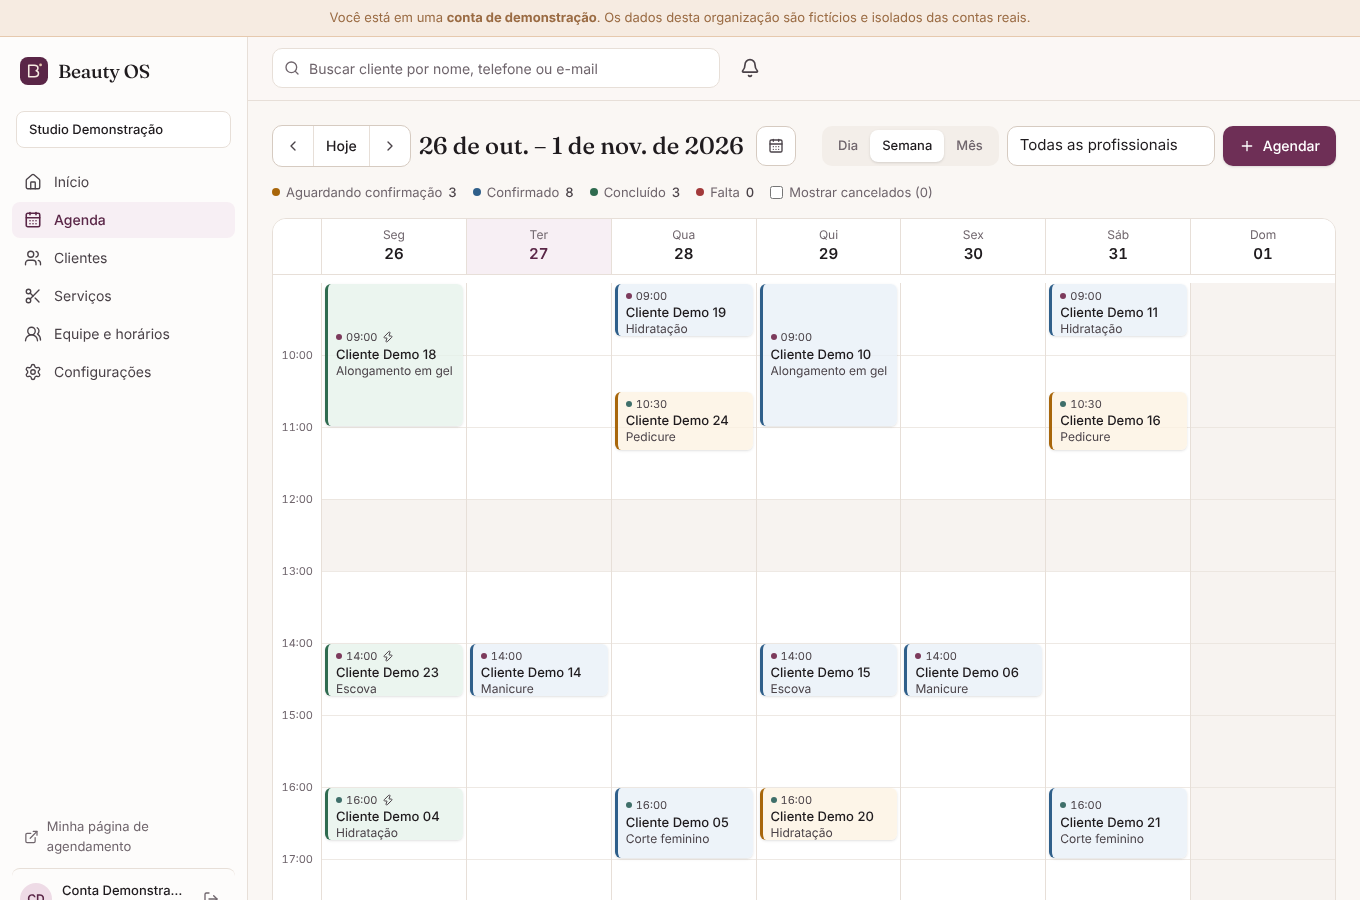
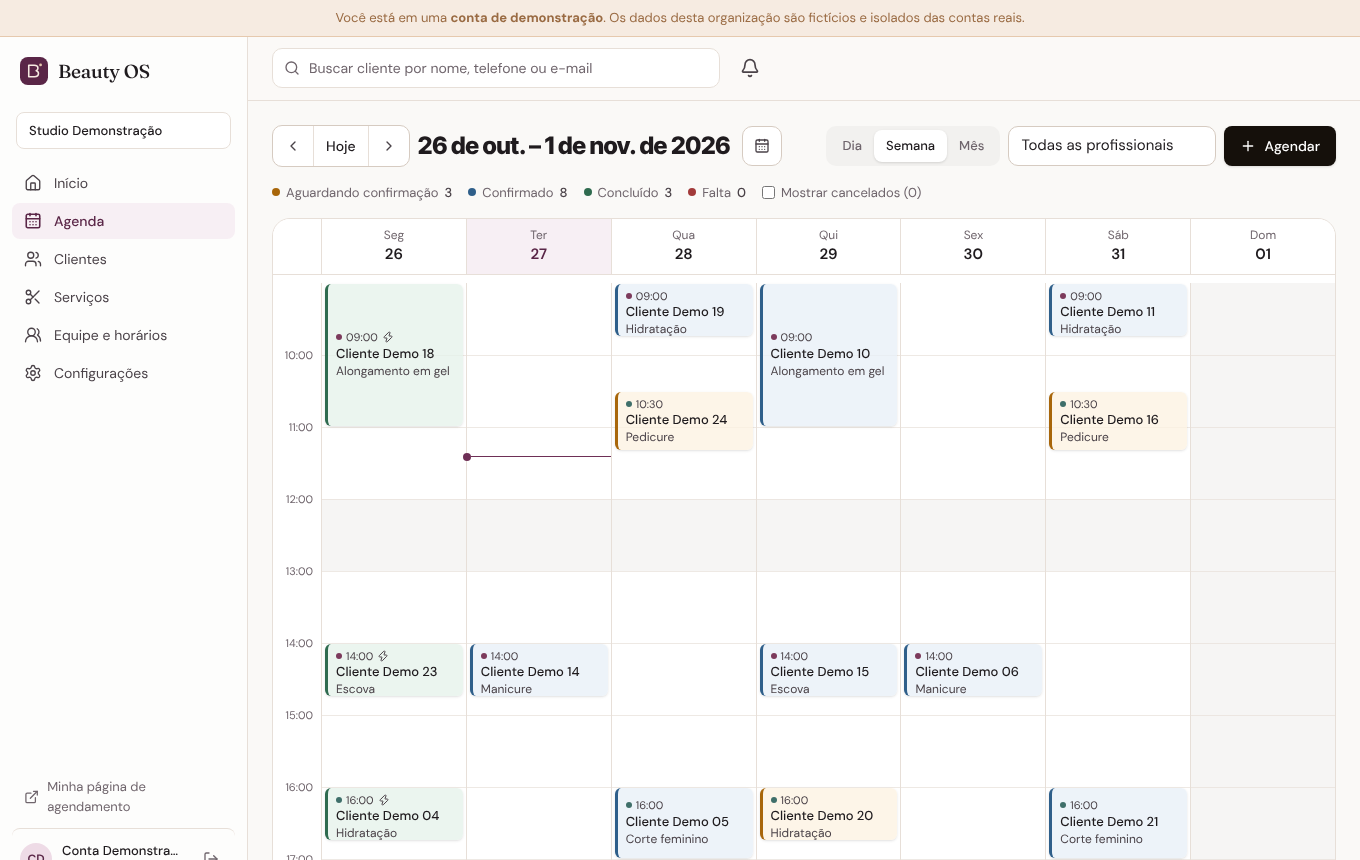
Estende a linguagem visual da landing ao produto inteiro
DM Sans como fonte base e Inter Tight ExtraBold nos títulos; ações e seleções
em preto quente; ameixa mantida como cor de marca; blocos escuros com halos;
topo claro com halo na página pública de agendamento.

Claude-Session: https://claude.ai/code/session_017yUxHj6sHtnoANT1YFCpkN

diff --git a/src/app/b/[slug]/booking-flow.tsx b/src/app/b/[slug]/booking-flow.tsx
@@ -54,7 +54,7 @@ export function BookingFlow({ slug, timeZone, days, requiresApproval, cancellati
     return (
       <Card className="p-8 text-center">
         <div className="mx-auto grid h-14 w-14 place-items-center rounded-full bg-st-completed-bg text-st-completed"><Check className="h-7 w-7" /></div>
-        <h2 className="mt-4 font-display text-2xl font-medium">{done.status === "pending" ? "Solicitação enviada!" : "Horário reservado!"}</h2>
+        <h2 className="mt-4 font-tight tracking-[-0.02em] text-2xl font-extrabold">{done.status === "pending" ? "Solicitação enviada!" : "Horário reservado!"}</h2>
         <p className="mt-2 text-sm text-ink-soft">
           {service?.name} · <span className="first-letter:uppercase">{date && formatInTz(zonedDateTime(date, "12:00", timeZone), timeZone, { weekday: "long", day: "numeric", month: "long" })}</span> às {time}
           {done.professionalName ? ` com ${done.professionalName}` : ""}.
@@ -71,8 +71,8 @@ export function BookingFlow({ slug, timeZone, days, requiresApproval, cancellati
     <Card className="overflow-hidden">
       <ol className="flex border-b border-line text-[12px] font-medium" aria-label="Etapas">
         {["Serviço", "Profissional", "Horário", "Seus dados"].map((l, i) => (
-          <li key={l} className={cn("flex-1 py-3 text-center", step === i + 1 ? "text-plum-700" : step > i + 1 ? "text-ink-soft" : "text-muted")}>
-            <span className={cn("mx-auto mb-1 block h-1 w-10 rounded-full", step >= i + 1 ? "bg-plum-500" : "bg-line")} aria-hidden />{l}
+          <li key={l} className={cn("flex-1 py-3 text-center", step === i + 1 ? "text-ink-warm" : step > i + 1 ? "text-ink-soft" : "text-muted")}>
+            <span className={cn("mx-auto mb-1 block h-1 w-10 rounded-full", step >= i + 1 ? "bg-ink-warm" : "bg-line")} aria-hidden />{l}
           </li>
         ))}
       </ol>
@@ -131,7 +131,7 @@ export function BookingFlow({ slug, timeZone, days, requiresApproval, cancellati
             <div className="-mx-5 mb-5 flex snap-x gap-2 overflow-x-auto px-5 pb-1 sm:-mx-6 sm:px-6">
               {days.map((d) => (
                 <button key={d} onClick={() => { setDate(d); setTime(null); }} aria-pressed={date === d}
-                  className={cn("flex w-14 shrink-0 snap-start flex-col items-center rounded-xl border py-2.5", date === d ? "border-plum-600 bg-plum-600 text-white" : "border-line hover:border-plum-500")}>
+                  className={cn("flex w-14 shrink-0 snap-start flex-col items-center rounded-xl border py-2.5", date === d ? "border-ink-warm bg-ink-warm text-white" : "border-line hover:border-plum-500")}>
                   <span className={cn("text-[11px] uppercase", date === d ? "text-plum-100" : "text-muted")}>{WD[localWeekday(d)]}</span>
                   <span className="text-lg font-semibold tabular">{Number(d.slice(8))}</span>
                 </button>
@@ -144,7 +144,7 @@ export function BookingFlow({ slug, timeZone, days, requiresApproval, cancellati
               : (
                 <div className="grid grid-cols-4 gap-2 sm:grid-cols-6">
                   {slots.list.map((s) => (
-                    <button key={s.time} onClick={() => { setTime(s.time); setNotice(null); }} className="h-10 rounded-lg border border-line text-sm font-medium tabular hover:border-plum-600 hover:bg-plum-50">{s.time}</button>
+                    <button key={s.time} onClick={() => { setTime(s.time); setNotice(null); }} className="h-10 rounded-lg border border-line text-sm font-medium tabular hover:border-ink-warm hover:bg-sunken">{s.time}</button>
                   ))}
                 </div>
               )}
@@ -187,7 +187,7 @@ function DetailsForm({ slug, serviceId, professionalId, date, time, summary, req
   });
   return (
     <ActionForm action={submit} className="flex flex-col gap-4" noValidate>
-      <div className="flex items-center gap-2 rounded-xl bg-plum-50 px-4 py-3 text-sm text-plum-700"><CalendarCheck className="h-4 w-4 shrink-0" />{summary}</div>
+      <div className="flex items-center gap-2 rounded-xl bg-sunken px-4 py-3 text-sm font-medium text-ink-warm"><CalendarCheck className="h-4 w-4 shrink-0" />{summary}</div>
       {error && <FormMessage state={{ ok: false, message: error }} />}
       <Field label="Seu nome" htmlFor="fullName" error={fe.fullName}><Input id="fullName" name="fullName" autoComplete="name" required /></Field>
       <Field label="WhatsApp" htmlFor="phone" error={fe.phone} hint="Usado para confirmar o horário."><Input id="phone" name="phone" type="tel" inputMode="tel" autoComplete="tel" placeholder="(11) 90000-0000" required /></Field>

diff --git a/src/app/onboarding/onboarding-flow.tsx b/src/app/onboarding/onboarding-flow.tsx
@@ -27,7 +27,7 @@ export function OnboardingFlow({
           <li key={s.n} className="flex flex-1 items-center gap-2">
             <span className={cn(
               "grid h-8 w-8 shrink-0 place-items-center rounded-full text-[13px] font-semibold",
-              step > s.n ? "bg-plum-600 text-white" : step === s.n ? "bg-plum-100 text-plum-700 ring-2 ring-plum-500" : "bg-sunken text-muted",
+              step > s.n ? "bg-ink-warm text-white" : step === s.n ? "bg-plum-100 text-plum-700 ring-2 ring-plum-500" : "bg-sunken text-muted",
             )} aria-current={step === s.n ? "step" : undefined}>
               {step > s.n ? <Check className="h-4 w-4" /> : s.n}
             </span>
@@ -49,7 +49,7 @@ function BusinessStep({ businessTypes, value, onType, onDone }: { businessTypes:
   const fe = state && !state.ok ? state.fieldErrors : undefined;
   return (
     <Card className="p-6 sm:p-8">
-      <h1 className="font-display text-[26px] font-medium">Vamos montar seu espaço</h1>
+      <h1 className="font-tight tracking-[-0.02em] text-[26px] font-extrabold">Vamos montar seu espaço</h1>
       <p className="mt-1 mb-6 text-sm text-muted">Três passos rápidos. Tudo pode ser ajustado depois.</p>
       <ActionForm action={action} className="flex flex-col gap-5">
         <FormMessage state={state} />
@@ -86,7 +86,7 @@ function HoursStep({ onDone }: { onDone: () => void }) {
   });
   return (
     <Card className="p-6 sm:p-8">
-      <h1 className="font-display text-[26px] font-medium">Quando você atende?</h1>
+      <h1 className="font-tight tracking-[-0.02em] text-[26px] font-extrabold">Quando você atende?</h1>
       <p className="mt-1 mb-6 text-sm text-muted">Usamos isso para mostrar apenas horários reais na sua agenda e na página de agendamento.</p>
       {error && <div className="mb-4"><FormMessage state={{ ok: false, message: error }} /></div>}
       <fieldset className="mb-6">
@@ -98,7 +98,7 @@ function HoursStep({ onDone }: { onDone: () => void }) {
               <button key={d} type="button" aria-pressed={on}
                 onClick={() => setDays(on ? days.filter((x) => x !== i) : [...days, i].sort())}
                 className={cn("h-10 min-w-12 rounded-[10px] border px-3 text-sm font-medium transition-colors",
-                  on ? "border-plum-600 bg-plum-600 text-white" : "border-line-strong bg-surface text-ink-soft hover:bg-sunken")}>
+                  on ? "border-ink-warm bg-ink-warm text-white" : "border-line-strong bg-surface text-ink-soft hover:bg-sunken")}>
                 {d}
               </button>
             );
@@ -139,7 +139,7 @@ function ServicesStep({ presets, onBack }: { presets: Preset[]; onBack: () => vo
   });
   return (
     <Card className="p-6 sm:p-8">
-      <h1 className="font-display text-[26px] font-medium">Seus serviços</h1>
+      <h1 className="font-tight tracking-[-0.02em] text-[26px] font-extrabold">Seus serviços</h1>
       <p className="mt-1 mb-6 text-sm text-muted">Sugestões comuns para o seu segmento. Ajuste preço e duração ou desmarque o que não oferece — os valores são só ponto de partida.</p>
       {error && <div className="mb-4"><FormMessage state={{ ok: false, message: error }} /></div>}
       <ul className="divide-y divide-line rounded-xl border border-line">

diff --git a/src/app/b/[slug]/page.tsx b/src/app/b/[slug]/page.tsx
@@ -1,7 +1,7 @@
 import type { Metadata } from "next";
 import Link from "next/link";
 import { notFound } from "next/navigation";
-import { MapPin, AtSign } from "lucide-react";
+import { AtSign, CalendarCheck2, MapPin } from "lucide-react";
 import { withSystem } from "@/server/db";
 import { getPublicBusiness } from "@/server/modules/public-booking";
 import { addDaysToKey, localDateKey } from "@/lib/time";
@@ -28,17 +28,18 @@ export default async function PublicBookingPage({ params }: Params) {
   const days = Array.from({ length: Math.min(biz.maxAdvanceDays + 1, 30) }, (_, i) => addDaysToKey(today, i));
   return (
     <div className="min-h-dvh bg-canvas">
-      <header className="bg-plum-900 px-4 pt-10 pb-16 text-champagne-100">
-        <div className="mx-auto max-w-2xl">
-          <p className="text-xs tracking-[0.18em] text-plum-200 uppercase">Agendamento online</p>
-          <h1 className="mt-2 font-display text-[32px] leading-tight font-medium">{biz.name}</h1>
-          <div className="mt-3 flex flex-wrap gap-x-4 gap-y-1 text-[13px] text-plum-200">
+      <header className="relative overflow-hidden bg-white px-4 pt-10 pb-20">
+        <div className="pointer-events-none absolute -top-24 left-1/2 h-72 w-[560px] -translate-x-1/2 rounded-full bg-halo-lavender opacity-80 blur-3xl" aria-hidden />
+        <div className="relative mx-auto max-w-2xl">
+          <p className="flex items-center gap-2 text-[14px] font-semibold text-ink-warm"><CalendarCheck2 className="h-4 w-4 text-[#813afc]" strokeWidth={2.4} />Agendamento online</p>
+          <h1 className="mt-2 font-tight text-[34px] leading-tight font-extrabold tracking-[-0.025em] text-ink-warm sm:text-[40px]">{biz.name}</h1>
+          <div className="mt-3 flex flex-wrap gap-x-4 gap-y-1 text-[13px] text-ink-warm/60">
             {biz.address && <span className="inline-flex items-center gap-1"><MapPin className="h-3.5 w-3.5" />{biz.address}</span>}
-            {biz.instagram && <a href={`https://instagram.com/${biz.instagram}`} target="_blank" rel="noreferrer" className="inline-flex items-center gap-1 hover:text-white"><AtSign className="h-3.5 w-3.5" />{biz.instagram}</a>}
+            {biz.instagram && <a href={`https://instagram.com/${biz.instagram}`} target="_blank" rel="noreferrer" className="inline-flex items-center gap-1 hover:text-ink-warm"><AtSign className="h-3.5 w-3.5" />{biz.instagram}</a>}
           </div>
         </div>
       </header>
-      <main className="mx-auto -mt-10 max-w-2xl px-4 pb-16">
+      <main className="relative mx-auto -mt-10 max-w-2xl px-4 pb-16">
         <BookingFlow
           slug={biz.slug}
           timeZone={biz.timezone}

diff --git a/src/app/(auth)/layout.tsx b/src/app/(auth)/layout.tsx
@@ -3,17 +3,17 @@ import { Logo } from "@/components/brand/logo";
 export default function AuthLayout({ children }: { children: React.ReactNode }) {
   return (
     <div className="grid min-h-dvh lg:grid-cols-[1fr_minmax(0,560px)]">
-      <aside className="relative hidden overflow-hidden bg-plum-900 p-12 text-champagne-100 lg:flex lg:flex-col lg:justify-between">
-        <Logo href="/" className="[&_span]:text-champagne-100" />
-        <div className="max-w-md">
-          <p className="font-display text-[34px] leading-[1.15] font-light">
-            Menos tempo administrando, menos horários perdidos e <em className="text-champagne-300">mais clientes voltando</em>.
+      <aside className="relative hidden overflow-hidden bg-ink-warm p-12 text-white lg:flex lg:flex-col lg:justify-between">
+        <div className="pointer-events-none absolute -top-32 -right-24 h-[420px] w-[420px] rounded-full bg-[#813afc]/35 blur-[90px]" aria-hidden />
+        <div className="pointer-events-none absolute -bottom-40 -left-24 h-[380px] w-[380px] rounded-full bg-[#e0457b]/25 blur-[90px]" aria-hidden />
+        <Logo href="/" className="relative [&_span]:text-white" />
+        <div className="relative max-w-md">
+          <p className="font-tight text-[38px] leading-[1.12] font-extrabold tracking-[-0.025em]">
+            Menos tempo administrando, menos horários perdidos e <span className="text-halo-lavender">mais clientes voltando</span>.
           </p>
-          <p className="mt-6 text-sm text-plum-200">Agenda, clientes e agendamento online em um só lugar — feito para o dia a dia de quem trabalha com beleza.</p>
+          <p className="mt-6 text-[15px] leading-relaxed text-white/65">Agenda, clientes e agendamento online em um só lugar, feito para o dia a dia de quem trabalha com beleza.</p>
         </div>
-        <p className="text-xs text-plum-200/70">Teste grátis por 14 dias. Sem cartão de crédito.</p>
-        <div className="pointer-events-none absolute -right-24 -bottom-24 h-80 w-80 rounded-full border border-plum-700" aria-hidden />
-        <div className="pointer-events-none absolute -right-8 -bottom-8 h-48 w-48 rounded-full border border-plum-700" aria-hidden />
+        <p className="relative text-xs text-white/50">Teste grátis por 14 dias. Sem cartão de crédito.</p>
       </aside>
       <main className="flex flex-col px-4 py-8 sm:px-10">
         <div className="lg:hidden"><Logo /></div>

diff --git a/src/app/app/agenda/agenda-view.tsx b/src/app/app/agenda/agenda-view.tsx
@@ -97,7 +97,7 @@ export function AgendaView(props: Props) {
             <button onClick={() => go({ data: today })} className="h-10 border-x border-line px-3 text-sm font-medium hover:bg-sunken" title="Hoje (T)">Hoje</button>
             <button onClick={() => shift(1)} className="grid h-10 w-10 place-items-center text-ink-soft hover:text-ink" aria-label="Próximo" title="Próximo (→)"><ChevronRight className="h-4 w-4" /></button>
           </div>
-          <h1 className="min-w-0 truncate font-display text-[22px] font-medium first-letter:uppercase sm:text-2xl">{title}</h1>
+          <h1 className="min-w-0 truncate font-tight tracking-[-0.02em] text-[22px] font-extrabold first-letter:uppercase sm:text-2xl">{title}</h1>
           <label className="relative ml-1">
             <span className="sr-only">Ir para data</span>
             <input type="date" value={date} onChange={(e) => e.target.value && go({ data: e.target.value })}
@@ -410,7 +410,7 @@ function MonthGrid({ rangeStart, date, today, timeZone, items, pros, onDay }: Pr
             <button key={d} onClick={() => onDay(d)}
               className={cn("flex min-h-[92px] flex-col gap-1 border-r border-b border-line p-1.5 text-left hover:bg-sunken/60 sm:min-h-[112px] sm:p-2 [&:nth-child(7n)]:border-r-0", !inMonth && "bg-canvas/50 text-muted")}
               aria-label={`${d.split("-").reverse().join("/")}: ${list.length} atendimento(s)`}>
-              <span className={cn("grid h-6 w-6 place-items-center rounded-full text-[13px] font-medium tabular", d === today && "bg-plum-600 text-white")}>{Number(d.slice(8))}</span>
+              <span className={cn("grid h-6 w-6 place-items-center rounded-full text-[13px] font-medium tabular", d === today && "bg-ink-warm text-white")}>{Number(d.slice(8))}</span>
               {list.slice(0, 3).map((i) => {
                 const pro = pros.find((p) => p.id === i.professionalId);
                 return (

diff --git a/src/app/globals.css b/src/app/globals.css
@@ -6,12 +6,12 @@
  * Contraste: texto principal sobre fundo ≥ 12:1; ameixa sobre branco ≥ 8:1; branco sobre ameixa ≥ 8:1.
  */
 @theme {
-  --font-sans: var(--font-inter), ui-sans-serif, system-ui, sans-serif;
+  --font-sans: var(--font-dm-sans), ui-sans-serif, system-ui, sans-serif;
   --font-display: var(--font-fraunces), ui-serif, Georgia, serif;
 
-  --color-canvas: #faf7f4;
+  --color-canvas: #faf9f7;
   --color-surface: #ffffff;
-  --color-sunken: #f3eee9;
+  --color-sunken: #f2f1ef;
   --color-line: #e7dfd8;
   --color-line-strong: #d6cbc1;
 
@@ -47,8 +47,8 @@
   --color-success: #2f6b4f;
 
   /* Landing (marketing): base quase monocromática, cor concentrada em halos e destaques */
-  --font-hero: var(--font-dm-sans), var(--font-inter), ui-sans-serif, system-ui, sans-serif;
-  --font-tight: var(--font-inter-tight), var(--font-inter), ui-sans-serif, system-ui, sans-serif;
+  --font-hero: var(--font-dm-sans), ui-sans-serif, system-ui, sans-serif;
+  --font-tight: var(--font-inter-tight), var(--font-dm-sans), ui-sans-serif, system-ui, sans-serif;
   --color-ink-warm: #15100b;
   --color-mkt-card: #f2f1ef;
   --color-mkt-shape: #e4e3e0;
@@ -65,7 +65,7 @@
   --color-slot-2: #7be4fe;
   --color-slot-3: #e5dbfd;
 
-  --radius-card: 14px;
+  --radius-card: 18px;
   --shadow-card: 0 1px 2px rgb(31 27 30 / 0.04), 0 1px 1px rgb(31 27 30 / 0.03);
   --shadow-pop: 0 12px 32px -8px rgb(46 19 36 / 0.22), 0 2px 6px rgb(46 19 36 / 0.08);
 }
@@ -79,8 +79,7 @@
     background: var(--color-canvas);
     color: var(--color-ink);
     font-family: var(--font-sans);
-    font-feature-settings: "cv11", "ss01";
-    -webkit-font-smoothing: antialiased;
+        -webkit-font-smoothing: antialiased;
   }
   :focus-visible {
     outline: 2px solid var(--color-plum-500);

diff --git a/src/app/page.tsx b/src/app/page.tsx
@@ -5,7 +5,6 @@ import { PLANS } from "@/domain/plans";
 import { getSession } from "@/server/auth/session";
 import { HeroWidget } from "@/components/marketing/hero-widget";
 import { BookingDemo } from "@/components/marketing/booking-demo";
-import { dmSans, interTight } from "@/components/marketing/fonts";
 import { cn } from "@/lib/cn";
 
 const pill = (tone: "dark" | "light") =>
@@ -35,7 +34,7 @@ const FAQ = [
 export default async function LandingPage() {
   const session = await getSession();
   return (
-    <div className={cn(dmSans.variable, interTight.variable, "bg-white font-hero text-ink-warm")}>
+    <div className="bg-white font-hero text-ink-warm">
       <header className="sticky top-0 z-30 bg-white/90 backdrop-blur">
         <div className="mx-auto flex h-[72px] max-w-[1240px] items-center justify-between gap-6 px-4 sm:px-6">
           <Logo />
@@ -153,7 +152,7 @@ export default async function LandingPage() {
               ["Acompanhe e fidelize", "Veja quem está sumida, sua ocupação e quanto recebeu no mês."],
             ].map(([t, d], i) => (
               <li key={t}>
-                <span className="font-display text-5xl font-light text-champagne-300">{i + 1}</span>
+                <span className="font-tight tracking-[-0.02em] text-5xl font-extrabold text-champagne-300">{i + 1}</span>
                 <h3 className="mt-3 text-[17px] font-semibold text-white">{t}</h3>
                 <p className="mt-2 text-sm leading-relaxed text-plum-200">{d}</p>
               </li>

diff --git a/src/app/app/page.tsx b/src/app/app/page.tsx
@@ -81,7 +81,7 @@ export default async function DashboardPage({ searchParams }: { searchParams: Pr
         <Card className="mb-6 overflow-hidden">
           <div className="grid gap-6 p-5 md:grid-cols-[1fr_auto] md:items-center">
             <div>
-              <h2 className="font-display text-xl font-medium">Primeiros passos</h2>
+              <h2 className="font-tight tracking-[-0.02em] text-xl font-extrabold">Primeiros passos</h2>
               <p className="mt-1 text-sm text-muted">Complete para começar a receber agendamentos. {activation.filter((a) => a.done).length} de {activation.length} concluídos.</p>
               <ul className="mt-4 grid gap-2 sm:grid-cols-2">
                 {activation.map((a) => (
@@ -94,9 +94,9 @@ export default async function DashboardPage({ searchParams }: { searchParams: Pr
                 ))}
               </ul>
             </div>
-            <div className="rounded-xl bg-plum-900 p-4 text-champagne-100 md:w-72">
+            <div className="rounded-2xl bg-ink-warm p-4 text-white md:w-72">
               <div className="flex items-center gap-2 text-sm font-medium"><Link2 className="h-4 w-4" />Sua página de agendamento</div>
-              <p className="mt-1 mb-3 text-xs text-plum-200">Coloque na bio do Instagram e envie no WhatsApp.</p>
+              <p className="mt-1 mb-3 text-xs text-white/65">Coloque na bio do Instagram e envie no WhatsApp.</p>
               <CopyLink url={`${appUrl}/b/${ctx.org.slug}`} />
             </div>
           </div>

diff --git a/src/app/layout.tsx b/src/app/layout.tsx
@@ -1,8 +1,10 @@
 import type { Metadata, Viewport } from "next";
-import { Fraunces, Inter } from "next/font/google";
+import { DM_Sans, Fraunces, Inter_Tight } from "next/font/google";
 import "./globals.css";
 
-const inter = Inter({ subsets: ["latin"], variable: "--font-inter", display: "swap" });
+// DM Sans (texto) e Inter Tight (títulos) — ver docs/design/referencia-hero-bento.md. Fraunces só no logotipo.
+const dmSans = DM_Sans({ subsets: ["latin"], variable: "--font-dm-sans", display: "swap" });
+const interTight = Inter_Tight({ subsets: ["latin"], weight: ["700", "800"], variable: "--font-inter-tight", display: "swap" });
 const fraunces = Fraunces({ subsets: ["latin"], variable: "--font-fraunces", display: "swap", axes: ["opsz"] });
 
 export const metadata: Metadata = {
@@ -11,11 +13,11 @@ export const metadata: Metadata = {
   metadataBase: new URL(process.env.APP_URL ?? "http://localhost:3000"),
 };
 
-export const viewport: Viewport = { themeColor: "#faf7f4", width: "device-width", initialScale: 1 };
+export const viewport: Viewport = { themeColor: "#ffffff", width: "device-width", initialScale: 1 };
 
 export default function RootLayout({ children }: { children: React.ReactNode }) {
   return (
-    <html lang="pt-BR" className={`${inter.variable} ${fraunces.variable}`}>
+    <html lang="pt-BR" className={`${dmSans.variable} ${interTight.variable} ${fraunces.variable}`}>
       <body className="min-h-dvh">{children}</body>
     </html>
   );

diff --git a/src/app/app/copy-link.tsx b/src/app/app/copy-link.tsx
@@ -5,11 +5,11 @@ import { Check, Copy } from "lucide-react";
 export function CopyLink({ url }: { url: string }) {
   const [copied, setCopied] = useState(false);
   return (
-    <div className="flex items-center gap-2 rounded-lg bg-plum-700 p-1 pl-3">
-      <span className="min-w-0 flex-1 truncate text-xs text-champagne-100">{url.replace(/^https?:\/\//, "")}</span>
+    <div className="flex items-center gap-2 rounded-lg bg-white/10 p-1 pl-3">
+      <span className="min-w-0 flex-1 truncate text-xs text-white/90">{url.replace(/^https?:\/\//, "")}</span>
       <button
         onClick={async () => { try { await navigator.clipboard.writeText(url); setCopied(true); setTimeout(() => setCopied(false), 2000); } catch { /* sem permissão */ } }}
-        className="inline-flex h-8 items-center gap-1 rounded-md bg-champagne-100 px-2.5 text-xs font-medium text-plum-900 hover:bg-white">
+        className="inline-flex h-8 items-center gap-1 rounded-md bg-white px-2.5 text-xs font-medium text-ink-warm hover:bg-white/85">
         {copied ? <><Check className="h-3.5 w-3.5" />Copiado</> : <><Copy className="h-3.5 w-3.5" />Copiar</>}
       </button>
     </div>

diff --git a/src/app/app/clientes/page.tsx b/src/app/app/clientes/page.tsx
@@ -46,7 +46,7 @@ export default async function ClientsPage({ searchParams }: { searchParams: Prom
         <nav className="-mx-4 flex gap-1.5 overflow-x-auto px-4 md:mx-0 md:px-0" aria-label="Segmentos">
           {(Object.entries(SEGMENTS) as [Segment, string][]).filter(([k]) => finance || k !== "high_value").map(([k, label]) => (
             <Link key={k} href={`/app/clientes?${new URLSearchParams({ ...(sp.q ? { q: sp.q } : {}), segmento: k })}`} aria-current={k === segment ? "page" : undefined}
-              className={cn("h-8 shrink-0 rounded-full border px-3 text-[13px] leading-[30px] font-medium", k === segment ? "border-plum-600 bg-plum-600 text-white" : "border-line bg-surface text-ink-soft hover:border-line-strong")}>
+              className={cn("h-8 shrink-0 rounded-full border px-3 text-[13px] leading-[30px] font-medium", k === segment ? "border-ink-warm bg-ink-warm text-white" : "border-line bg-surface text-ink-soft hover:border-line-strong")}>
               {label}
             </Link>
           ))}

diff --git a/src/components/shell/app-shell.tsx b/src/components/shell/app-shell.tsx
@@ -169,7 +169,7 @@ function Notifications({ items }: { items: ShellProps["notifications"] }) {
         if (!open && unread) { markNotificationsRead(); setList((l) => l.map((n) => ({ ...n, read: true }))); }
       }} className="relative rounded-lg p-2 text-ink-soft hover:bg-sunken" aria-label={`Notificações${unread ? ` (${unread} novas)` : ""}`} aria-expanded={open}>
         <Bell className="h-5 w-5" />
-        {unread > 0 && <span className="absolute top-1 right-1 grid h-4 min-w-4 place-items-center rounded-full bg-plum-600 px-1 text-[10px] font-semibold text-white">{unread}</span>}
+        {unread > 0 && <span className="absolute top-1 right-1 grid h-4 min-w-4 place-items-center rounded-full bg-badge px-1 text-[10px] font-semibold text-white">{unread}</span>}
       </button>
       {open && (
         <div className="absolute right-0 z-40 mt-2 w-[min(92vw,360px)] overflow-hidden rounded-xl border border-line bg-surface shadow-[var(--shadow-pop)]">
